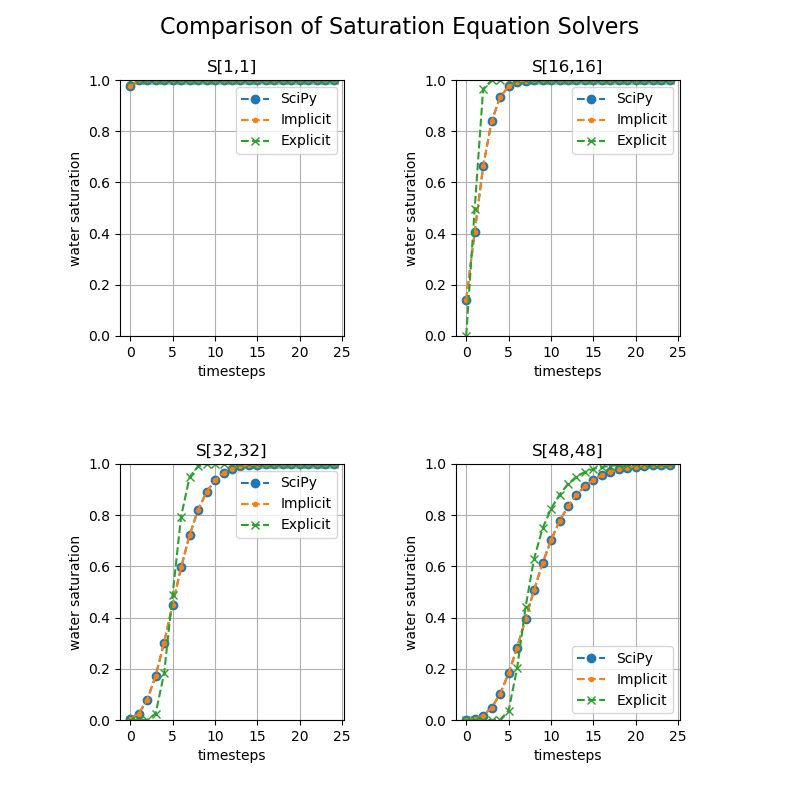
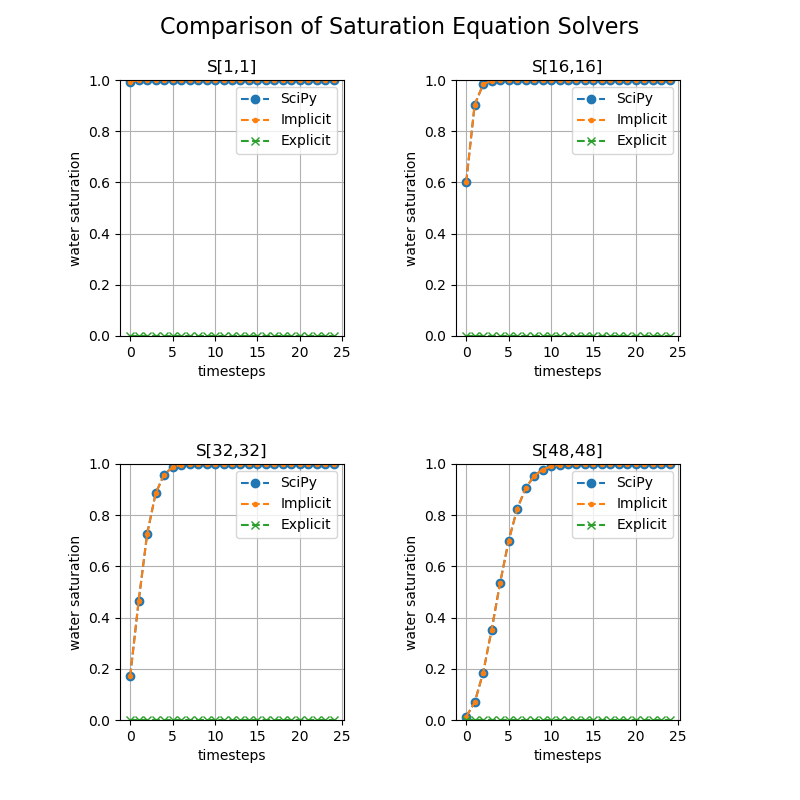
add 1ph and 2ph test cases

diff --git a/spatial_expcov.py b/spatial_expcov.py
@@ -1,0 +1,61 @@
+"""
+Functions to sample zero-centered nx x ny random vector with exponential spatial covariance
+See https://math.stackexchange.com/questions/163470/generating-correlated-random-numbers-why-does-cholesky-decomposition-work
+"""
+import argparse
+
+import numpy
+from scipy.linalg import cholesky
+from scipy.spatial.distance import cdist
+
+def exponential_covariance(distance, length, sigma):
+    return numpy.exp(-distance/numpy.float(length)) * sigma**2
+
+def build_covariance_matrix(nx, ny, length, sigma, lx=1.0, ly=1.0):
+    dx, dy = lx/nx, ly/ny
+    x, y = numpy.meshgrid((numpy.arange(nx)+.5)*dx, (numpy.arange(ny)+.5)*dy)
+    coords = list(zip(x.ravel(), y.ravel()))
+    distance_matrix = cdist(coords, coords)
+    covariance_matrix = exponential_covariance(distance_matrix, length, sigma)
+    return covariance_matrix
+
+def generate(nx, ny, length, sigma, lx=1.0, ly=1.0):
+    """ generate single realization """
+    chol = _chol(nx, ny, length, sigma, lx, ly)
+    u = numpy.random.randn(ny, nx).ravel()
+    v = chol.dot(u).reshape(ny, nx)
+    return v
+
+def batch_generate(nx, ny, length, sigma, lx=1.0, ly=1.0, sample_size=1):
+    """ generate multiple realizations """
+    chol = _chol(nx, ny, length, sigma, lx, ly)
+    ubatch = numpy.random.randn(ny, nx, sample_size).reshape(ny*nx, sample_size)
+    vbatch = chol.dot(ubatch)
+    vbatch = vbatch.T.reshape(sample_size, ny, nx)
+    return vbatch
+
+def _chol(nx, ny, length, sigma, lx, ly):
+    covariance_matrix = build_covariance_matrix(nx, ny, length, sigma, lx, ly)
+    chol = cholesky(covariance_matrix, lower=True)
+    return chol
+
+if __name__ == '__main__':
+    parser = argparse.ArgumentParser()
+    parser.add_argument('--seed', type=int, default=42)
+    parser.add_argument('--outfile', default='tmp.npy', help='output filename')
+    parser.add_argument('--grid_size', nargs=2, type=int, default=[64, 64], help='resolution of the grid')
+    parser.add_argument('--domain_size', nargs=2, type=float, default=[1.0, 1.0], help='default is a unit square')
+    parser.add_argument('--length', type=float, default=1.0, help='length scale of exponential covariance')
+    parser.add_argument('--sigma', type=float, default=1.0, help='amplitude of exponential covariance')
+    parser.add_argument('--sample_size', type=int, default=10)
+    args = parser.parse_args()
+
+    numpy.random.seed(args.seed)
+
+    nx, ny = args.grid_size
+    lx, ly = args.domain_size
+
+    data = batch_generate(nx, ny, args.length, args.sigma, lx, ly, args.sample_size)
+    numpy.save(args.outfile, data)
+
+    print('Generated data saved at {}'.format(args.outfile))

diff --git a/test_cases_1ph.py b/test_cases_1ph.py
@@ -3,13 +3,17 @@
 from time import time
 import numpy as np
 import ressim
+from spatial_expcov import batch_generate
+
+nx,ny=128,128
 
 def test_case_scipy():
 
     np.random.seed(42)  # for reproducibility
 
-    grid = ressim.Grid(nx=64, ny=64, lx=1.0, ly=1.0)  # unit square, 64x64 grid
-    k = np.exp(np.load('perm.npy').reshape(grid.shape))  # load log-permeability, convert to absolute with exp()
+    grid = ressim.Grid(nx=nx, ny=ny, lx=1.0, ly=1.0)  # unit square, 128x128 grid
+    k = batch_generate(nx, nx, 0.1, 1.0, 1.0, 1.0, 1)
+    k=np.exp(k[0])
     q = np.zeros(grid.shape); q[0,0]=1; q[-1,-1]=-1  # source term: corner-to-corner flow (a.k.a. quarter-five spot)
 
     phi = np.ones(grid.shape)*0.2  # uniform porosity
@@ -48,8 +52,9 @@ def test_case_implicit():
 
     np.random.seed(42)  # for reproducibility
 
-    grid = ressim.Grid(nx=64, ny=64, lx=1.0, ly=1.0)  # unit square, 64x64 grid
-    k = np.exp(np.load('perm.npy').reshape(grid.shape))  # load log-permeability, convert to absolute with exp()
+    grid = ressim.Grid(nx=nx, ny=ny, lx=1.0, ly=1.0)  # unit square, 128x128 grid
+    k = batch_generate(nx, nx, 0.1, 1.0, 1.0, 1.0, 1)
+    k=np.exp(k[0])
     q = np.zeros(grid.shape); q[0,0]=1; q[-1,-1]=-1  # source term: corner-to-corner flow (a.k.a. quarter-five spot)
 
     phi = np.ones(grid.shape)*0.2  # uniform porosity
@@ -88,8 +93,9 @@ def test_case_explicit():
 
     np.random.seed(42)  # for reproducibility
 
-    grid = ressim.Grid(nx=64, ny=64, lx=1.0, ly=1.0)  # unit square, 64x64 grid
-    k = np.exp(np.load('perm.npy').reshape(grid.shape))  # load log-permeability, convert to absolute with exp()
+    grid = ressim.Grid(nx=nx, ny=ny, lx=1.0, ly=1.0)  # unit square, 128x128 grid
+    k = batch_generate(nx, nx, 0.1, 1.0, 1.0, 1.0, 1)
+    k=np.exp(k[0])
     q = np.zeros(grid.shape); q[0,0]=1; q[-1,-1]=-1  # source term: corner-to-corner flow (a.k.a. quarter-five spot)
 
     phi = np.ones(grid.shape)*0.2  # uniform porosity

diff --git a/main_singlephase.py b/main_singlephase.py
@@ -12,10 +12,15 @@ matplotlib.use('Agg')
 matplotlib.rcParams['image.cmap'] = 'jet'
 import matplotlib.pyplot as plt
 
-np.random.seed(42)  # for reproducibility
+from spatial_expcov import batch_generate
 
-grid = ressim.Grid(nx=64, ny=64, lx=1.0, ly=1.0)  # unit square, 64x64 grid
-k = np.exp(np.load('perm.npy').reshape(grid.shape))  # load log-permeability, convert to absolute with exp()
+np.random.seed(42)  # for reproducibility
+nx,ny=128,128
+grid = ressim.Grid(nx=nx, ny=ny, lx=1.0, ly=1.0)  # unit square, 64x64 grid
+k = batch_generate(nx, nx, 0.1, 1.0, 1.0, 1.0, 1)
+k=np.exp(k[0])
+
+# k = np.exp(np.load('perm.npy').reshape(grid.shape))  # load log-permeability, convert to absolute with exp()
 q = np.zeros(grid.shape); q[0,0]=1; q[-1,-1]=-1  # source term: corner-to-corner flow (a.k.a. quarter-five spot)
 
 phi = np.ones(grid.shape)*0.2  # uniform porosity
@@ -44,6 +49,7 @@ for i in range(nstep):
     before = time()
     # solve saturation
     solverS.step_explicit(dt,0.0,0.0)
+    # solverS.step(dt)
     after = time()
     print('[{}/{}]: this loop took {} secs'.format(i+1, nstep, after - before))
     s_list.append(solverS.s)

diff --git a/solver_comparison_1ph.py b/solver_comparison_1ph.py
@@ -50,5 +50,5 @@ plt.legend(['SciPy', 'Implicit', 'Explicit'])
 plt.title('Computational Time for each Solver')
 plt.xlabel('simulation timestep')
 plt.ylabel('computational time (sec)')
-plt.ylim([0.0,0.2])
+# plt.ylim([0.0,0.2])
 plt.savefig('time_comparison_1ph.png',  bbox_inches=0, pad_inches=0)
